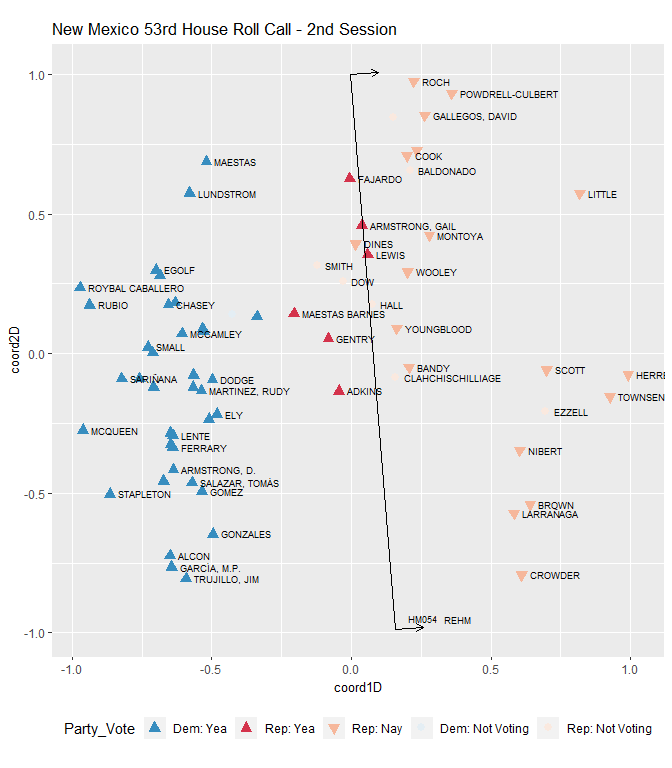
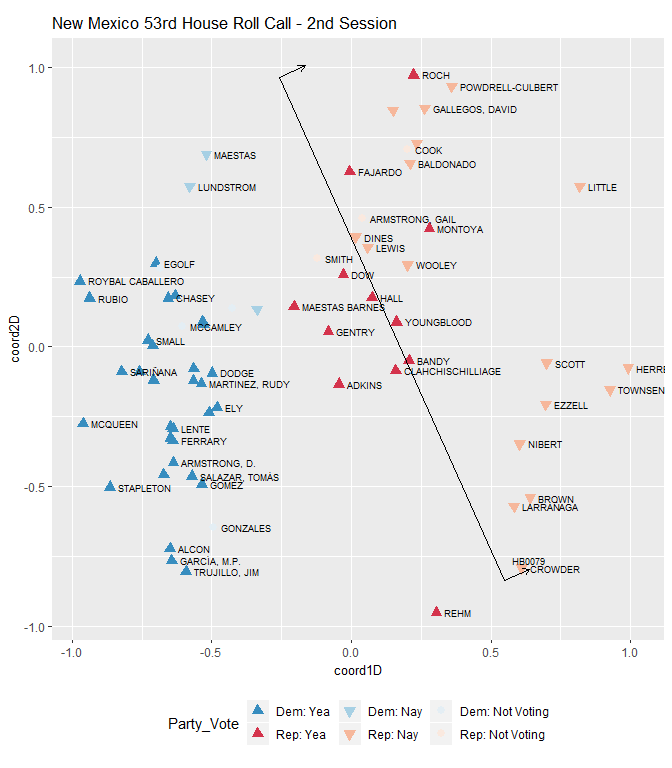
re

diff --git a/README.md b/README.md
@@ -81,7 +81,7 @@ resultd2 <- wnominate::wnominate (datRC,
 ## 
 ## 
 ## W-NOMINATE estimation completed successfully.
-## W-NOMINATE took 2.37 seconds to execute.
+## W-NOMINATE took 2.34 seconds to execute.
 ```
 
 ### Plot two-dimensional model
@@ -188,7 +188,7 @@ ggplot () +
 Cutting line selections.
 
 ``` r
-select_cuts <- c("HM054")
+select_cuts <- c("HB0079")
 
 sub <- nmlegisdatr::nml_rollcall %>%
   filter(Bill_ID %in% select_cuts) %>%
